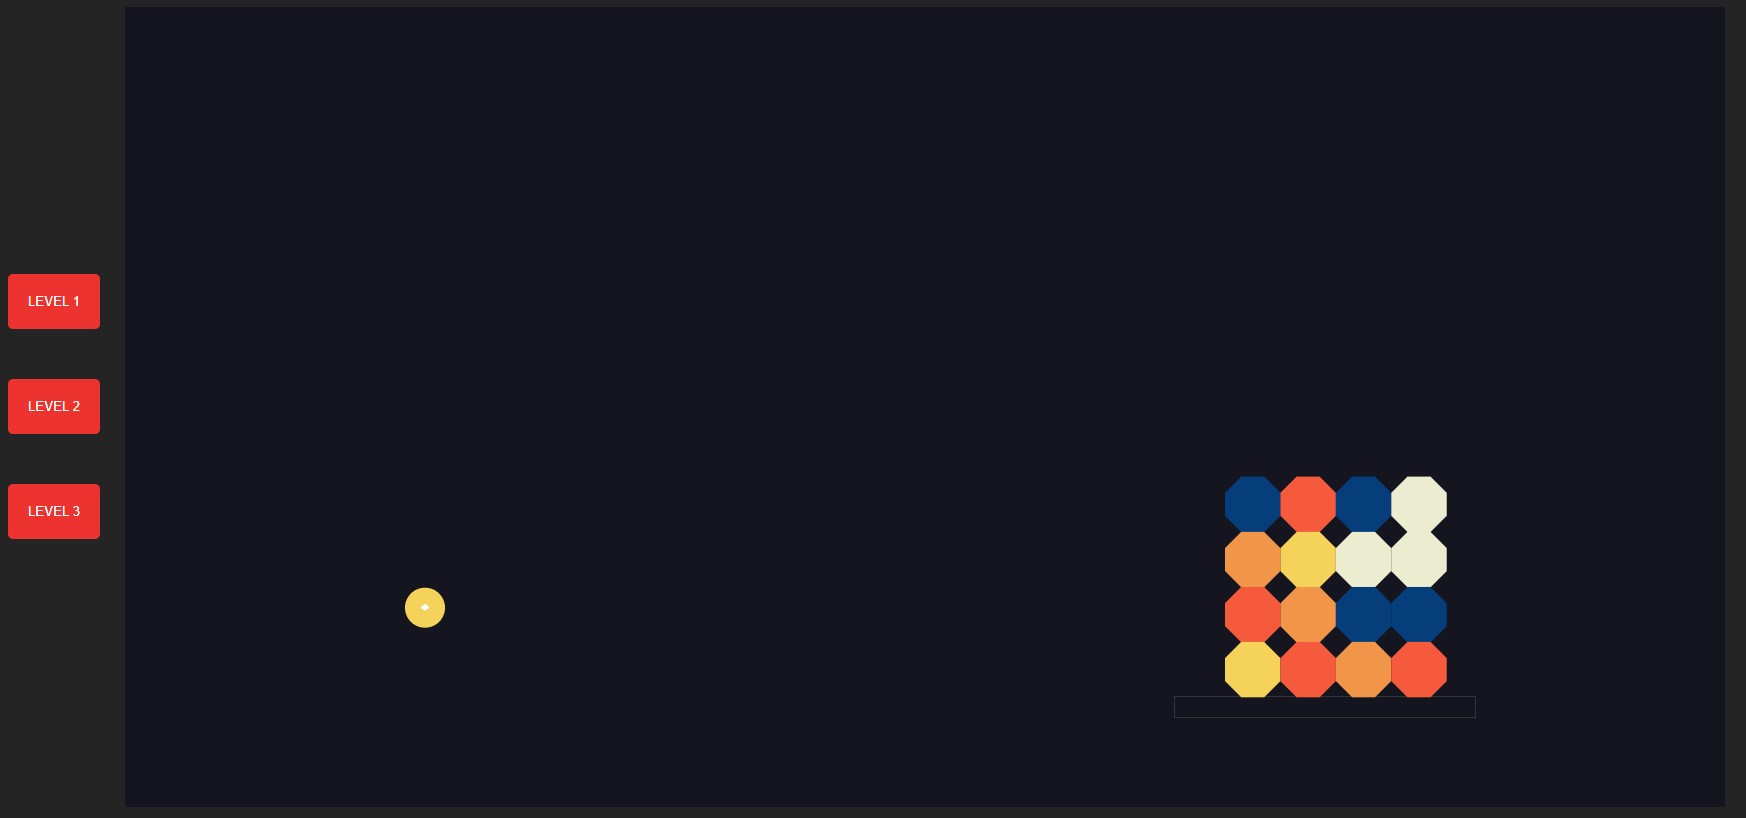
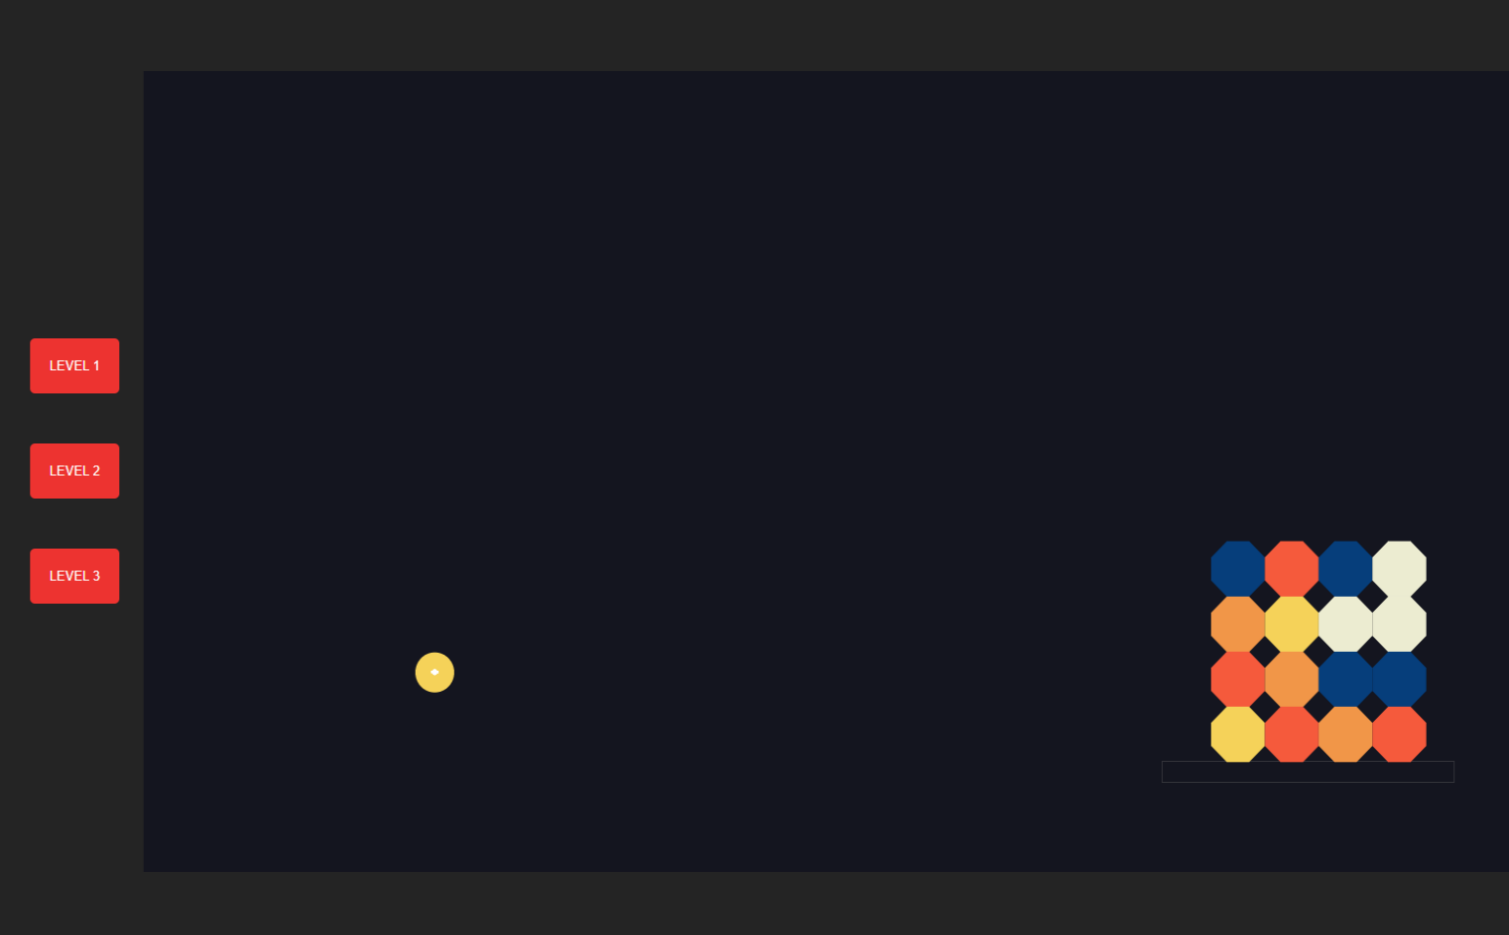
image formatting

diff --git a/build/index.html b/build/index.html
@@ -1,1 +1,1 @@
-<!doctype html><html lang="en"><head><meta charset="utf-8"/><link rel="icon" href="/react-portfolio/favicon.ico"/><meta name="viewport" content="width=device-width,initial-scale=1"/><meta name="theme-color" content="#000000"/><meta name="description" content="Matt Dunlop Web Developer"/><link rel="apple-touch-icon" sizes="180x180" href="/react-portfolio/apple-touch-icon.png"><link rel="icon" type="image/png" sizes="32x32" href="/react-portfolio/favicon-32x32.png"><link rel="icon" type="image/png" sizes="16x16" href="/react-portfolio/favicon-16x16.png"><link rel="manifest" href="/react-portfolio/site.webmanifest"><link href="https://cdn.jsdelivr.net/npm/bootstrap@5.1.3/dist/css/bootstrap.min.css" rel="stylesheet"><link rel="stylesheet" href="https://cdnjs.cloudflare.com/ajax/libs/font-awesome/6.1.1/css/all.min.css" integrity="sha512-KfkfwYDsLkIlwQp6LFnl8zNdLGxu9YAA1QvwINks4PhcElQSvqcyVLLD9aMhXd13uQjoXtEKNosOWaZqXgel0g==" crossorigin="anonymous" referrerpolicy="no-referrer"/><style>.bd-placeholder-img{font-size:1.125rem;text-anchor:middle;-webkit-user-select:none;-moz-user-select:none;user-select:none}@media (min-width:768px){.bd-placeholder-img-lg{font-size:3.5rem}}</style><title>Matt Dunlop Web Developer</title><link href="/react-portfolio/static/css/main.38f68a42.chunk.css" rel="stylesheet"></head><body><noscript>You need to enable JavaScript to run this app.</noscript><div id="root"></div><script>!function(l){function e(e){for(var r,t,n=e[0],o=e[1],u=e[2],f=0,i=[];f<n.length;f++)t=n[f],p[t]&&i.push(p[t][0]),p[t]=0;for(r in o)Object.prototype.hasOwnProperty.call(o,r)&&(l[r]=o[r]);for(s&&s(e);i.length;)i.shift()();return c.push.apply(c,u||[]),a()}function a(){for(var e,r=0;r<c.length;r++){for(var t=c[r],n=!0,o=1;o<t.length;o++){var u=t[o];0!==p[u]&&(n=!1)}n&&(c.splice(r--,1),e=f(f.s=t[0]))}return e}var t={},p={2:0},c=[];function f(e){if(t[e])return t[e].exports;var r=t[e]={i:e,l:!1,exports:{}};return l[e].call(r.exports,r,r.exports,f),r.l=!0,r.exports}f.m=l,f.c=t,f.d=function(e,r,t){f.o(e,r)||Object.defineProperty(e,r,{enumerable:!0,get:t})},f.r=function(e){"undefined"!=typeof Symbol&&Symbol.toStringTag&&Object.defineProperty(e,Symbol.toStringTag,{value:"Module"}),Object.defineProperty(e,"__esModule",{value:!0})},f.t=function(r,e){if(1&e&&(r=f(r)),8&e)return r;if(4&e&&"object"==typeof r&&r&&r.__esModule)return r;var t=Object.create(null);if(f.r(t),Object.defineProperty(t,"default",{enumerable:!0,value:r}),2&e&&"string"!=typeof r)for(var n in r)f.d(t,n,function(e){return r[e]}.bind(null,n));return t},f.n=function(e){var r=e&&e.__esModule?function(){return e.default}:function(){return e};return f.d(r,"a",r),r},f.o=function(e,r){return Object.prototype.hasOwnProperty.call(e,r)},f.p="/react-portfolio/";var r=window.webpackJsonp=window.webpackJsonp||[],n=r.push.bind(r);r.push=e,r=r.slice();for(var o=0;o<r.length;o++)e(r[o]);var s=n;a()}([])</script><script src="/react-portfolio/static/js/1.b3b809bf.chunk.js"></script><script src="/react-portfolio/static/js/main.1e61dc1a.chunk.js"></script></body></html>
+<!doctype html><html lang="en"><head><meta charset="utf-8"/><link rel="icon" href="/react-portfolio/favicon.ico"/><meta name="viewport" content="width=device-width,initial-scale=1"/><meta name="theme-color" content="#000000"/><meta name="description" content="Matt Dunlop Web Developer"/><link rel="apple-touch-icon" sizes="180x180" href="/react-portfolio/apple-touch-icon.png"><link rel="icon" type="image/png" sizes="32x32" href="/react-portfolio/favicon-32x32.png"><link rel="icon" type="image/png" sizes="16x16" href="/react-portfolio/favicon-16x16.png"><link rel="manifest" href="/react-portfolio/site.webmanifest"><link href="https://cdn.jsdelivr.net/npm/bootstrap@5.1.3/dist/css/bootstrap.min.css" rel="stylesheet"><link rel="stylesheet" href="https://cdnjs.cloudflare.com/ajax/libs/font-awesome/6.1.1/css/all.min.css" integrity="sha512-KfkfwYDsLkIlwQp6LFnl8zNdLGxu9YAA1QvwINks4PhcElQSvqcyVLLD9aMhXd13uQjoXtEKNosOWaZqXgel0g==" crossorigin="anonymous" referrerpolicy="no-referrer"/><style>.bd-placeholder-img{font-size:1.125rem;text-anchor:middle;-webkit-user-select:none;-moz-user-select:none;user-select:none}@media (min-width:768px){.bd-placeholder-img-lg{font-size:3.5rem}}</style><title>Matt Dunlop Web Developer</title><link href="/react-portfolio/static/css/main.38f68a42.chunk.css" rel="stylesheet"></head><body><noscript>You need to enable JavaScript to run this app.</noscript><div id="root"></div><script>!function(l){function e(e){for(var r,t,n=e[0],o=e[1],u=e[2],f=0,i=[];f<n.length;f++)t=n[f],p[t]&&i.push(p[t][0]),p[t]=0;for(r in o)Object.prototype.hasOwnProperty.call(o,r)&&(l[r]=o[r]);for(s&&s(e);i.length;)i.shift()();return c.push.apply(c,u||[]),a()}function a(){for(var e,r=0;r<c.length;r++){for(var t=c[r],n=!0,o=1;o<t.length;o++){var u=t[o];0!==p[u]&&(n=!1)}n&&(c.splice(r--,1),e=f(f.s=t[0]))}return e}var t={},p={2:0},c=[];function f(e){if(t[e])return t[e].exports;var r=t[e]={i:e,l:!1,exports:{}};return l[e].call(r.exports,r,r.exports,f),r.l=!0,r.exports}f.m=l,f.c=t,f.d=function(e,r,t){f.o(e,r)||Object.defineProperty(e,r,{enumerable:!0,get:t})},f.r=function(e){"undefined"!=typeof Symbol&&Symbol.toStringTag&&Object.defineProperty(e,Symbol.toStringTag,{value:"Module"}),Object.defineProperty(e,"__esModule",{value:!0})},f.t=function(r,e){if(1&e&&(r=f(r)),8&e)return r;if(4&e&&"object"==typeof r&&r&&r.__esModule)return r;var t=Object.create(null);if(f.r(t),Object.defineProperty(t,"default",{enumerable:!0,value:r}),2&e&&"string"!=typeof r)for(var n in r)f.d(t,n,function(e){return r[e]}.bind(null,n));return t},f.n=function(e){var r=e&&e.__esModule?function(){return e.default}:function(){return e};return f.d(r,"a",r),r},f.o=function(e,r){return Object.prototype.hasOwnProperty.call(e,r)},f.p="/react-portfolio/";var r=window.webpackJsonp=window.webpackJsonp||[],n=r.push.bind(r);r.push=e,r=r.slice();for(var o=0;o<r.length;o++)e(r[o]);var s=n;a()}([])</script><script src="/react-portfolio/static/js/1.b3b809bf.chunk.js"></script><script src="/react-portfolio/static/js/main.8d4f64ab.chunk.js"></script></body></html>

diff --git a/src/pages/Projects.js b/src/pages/Projects.js
@@ -15,7 +15,7 @@ const Projects = () => {
       <div class="row row-cols-1 row-cols-sm-2 row-cols-md-3 g-3">
         <div class="col">
           <div class="card shadow-sm">
-					<img alt="Screen shot" src={require('../images/Ecomm.PNG')}></img>
+					<img class="img-fluid img-thumbnail" alt="Screen shot" src={require('../images/Ecomm.PNG')}></img>
             <div class="card-body">
 							<h5 class="card-title ">Ecommerce Site</h5>
               <p class="card-text">A mock Ecommerce site built using React on the font end and node on the back end.</p>
@@ -30,7 +30,7 @@ const Projects = () => {
         </div>
         <div class="col">
           <div class="card shadow-sm">
-					<img alt="Screen shot" src={require('../images/MovieDash.PNG')}></img>
+					<img class="img-fluid img-thumbnail" alt="Screen shot" src={require('../images/MovieDash.PNG')}></img>
             <div class="card-body">
 							<h5 class="card-title ">Movie Dashboard</h5>
               <p class="card-text">A website to searh for and find stats for you favioute movie using OMDb API.</p>
@@ -45,7 +45,7 @@ const Projects = () => {
         </div>
         <div class="col">
           <div class="card shadow-sm">
-					<img alt="Screen shot" src={require('../images/MatterBirds.PNG')}></img>
+					<img class="img-fluid img-thumbnail" alt="Screen shot" src={require('../images/MatterBirds.PNG')}></img>
             <div class="card-body">
 						<h5 class="card-title ">Matter Birds</h5>
               <p class="card-text">A simple angry birds type game built using Matter.js.</p>
@@ -61,7 +61,7 @@ const Projects = () => {
 
         <div class="col">
           <div class="card shadow-sm">
-					<img alt="Screen shot" src={require('../images/Fitness.PNG')}></img>
+					<img class="img-fluid img-thumbnail" alt="Screen shot" src={require('../images/Fitness.PNG')}></img>
             <div class="card-body">
 						<h5 class="card-title ">Health and Fitness Mock-up</h5>
               <p class="card-text">A mock up I created for my brother when he was considering becoing a Personal Trainer.Built using HTML CSS (BootStrap) and a little JS </p>
@@ -76,7 +76,7 @@ const Projects = () => {
         </div>
         <div class="col">
           <div class="card shadow-sm">
-					<img alt="Screen shot" src={require('../images/Portfolio.PNG')}></img>
+					<img class="img-fluid img-thumbnail"  alt="Screen shot" src={require('../images/Portfolio.PNG')}></img>
             <div class="card-body">
 							<h5 class="card-title ">Portfolio</h5>
               <p class="card-text">This Portfolio that you are current viewing. Built in React</p>

diff --git a/build/service-worker.js b/build/service-worker.js
@@ -14,7 +14,7 @@
 importScripts("https://storage.googleapis.com/workbox-cdn/releases/3.6.3/workbox-sw.js");
 
 importScripts(
-  "/react-portfolio/precache-manifest.7412028782d957ab5a7a28c94001b5d1.js"
+  "/react-portfolio/precache-manifest.f8ce8457efd92372750ef1e66838ad4e.js"
 );
 
 workbox.clientsClaim();
